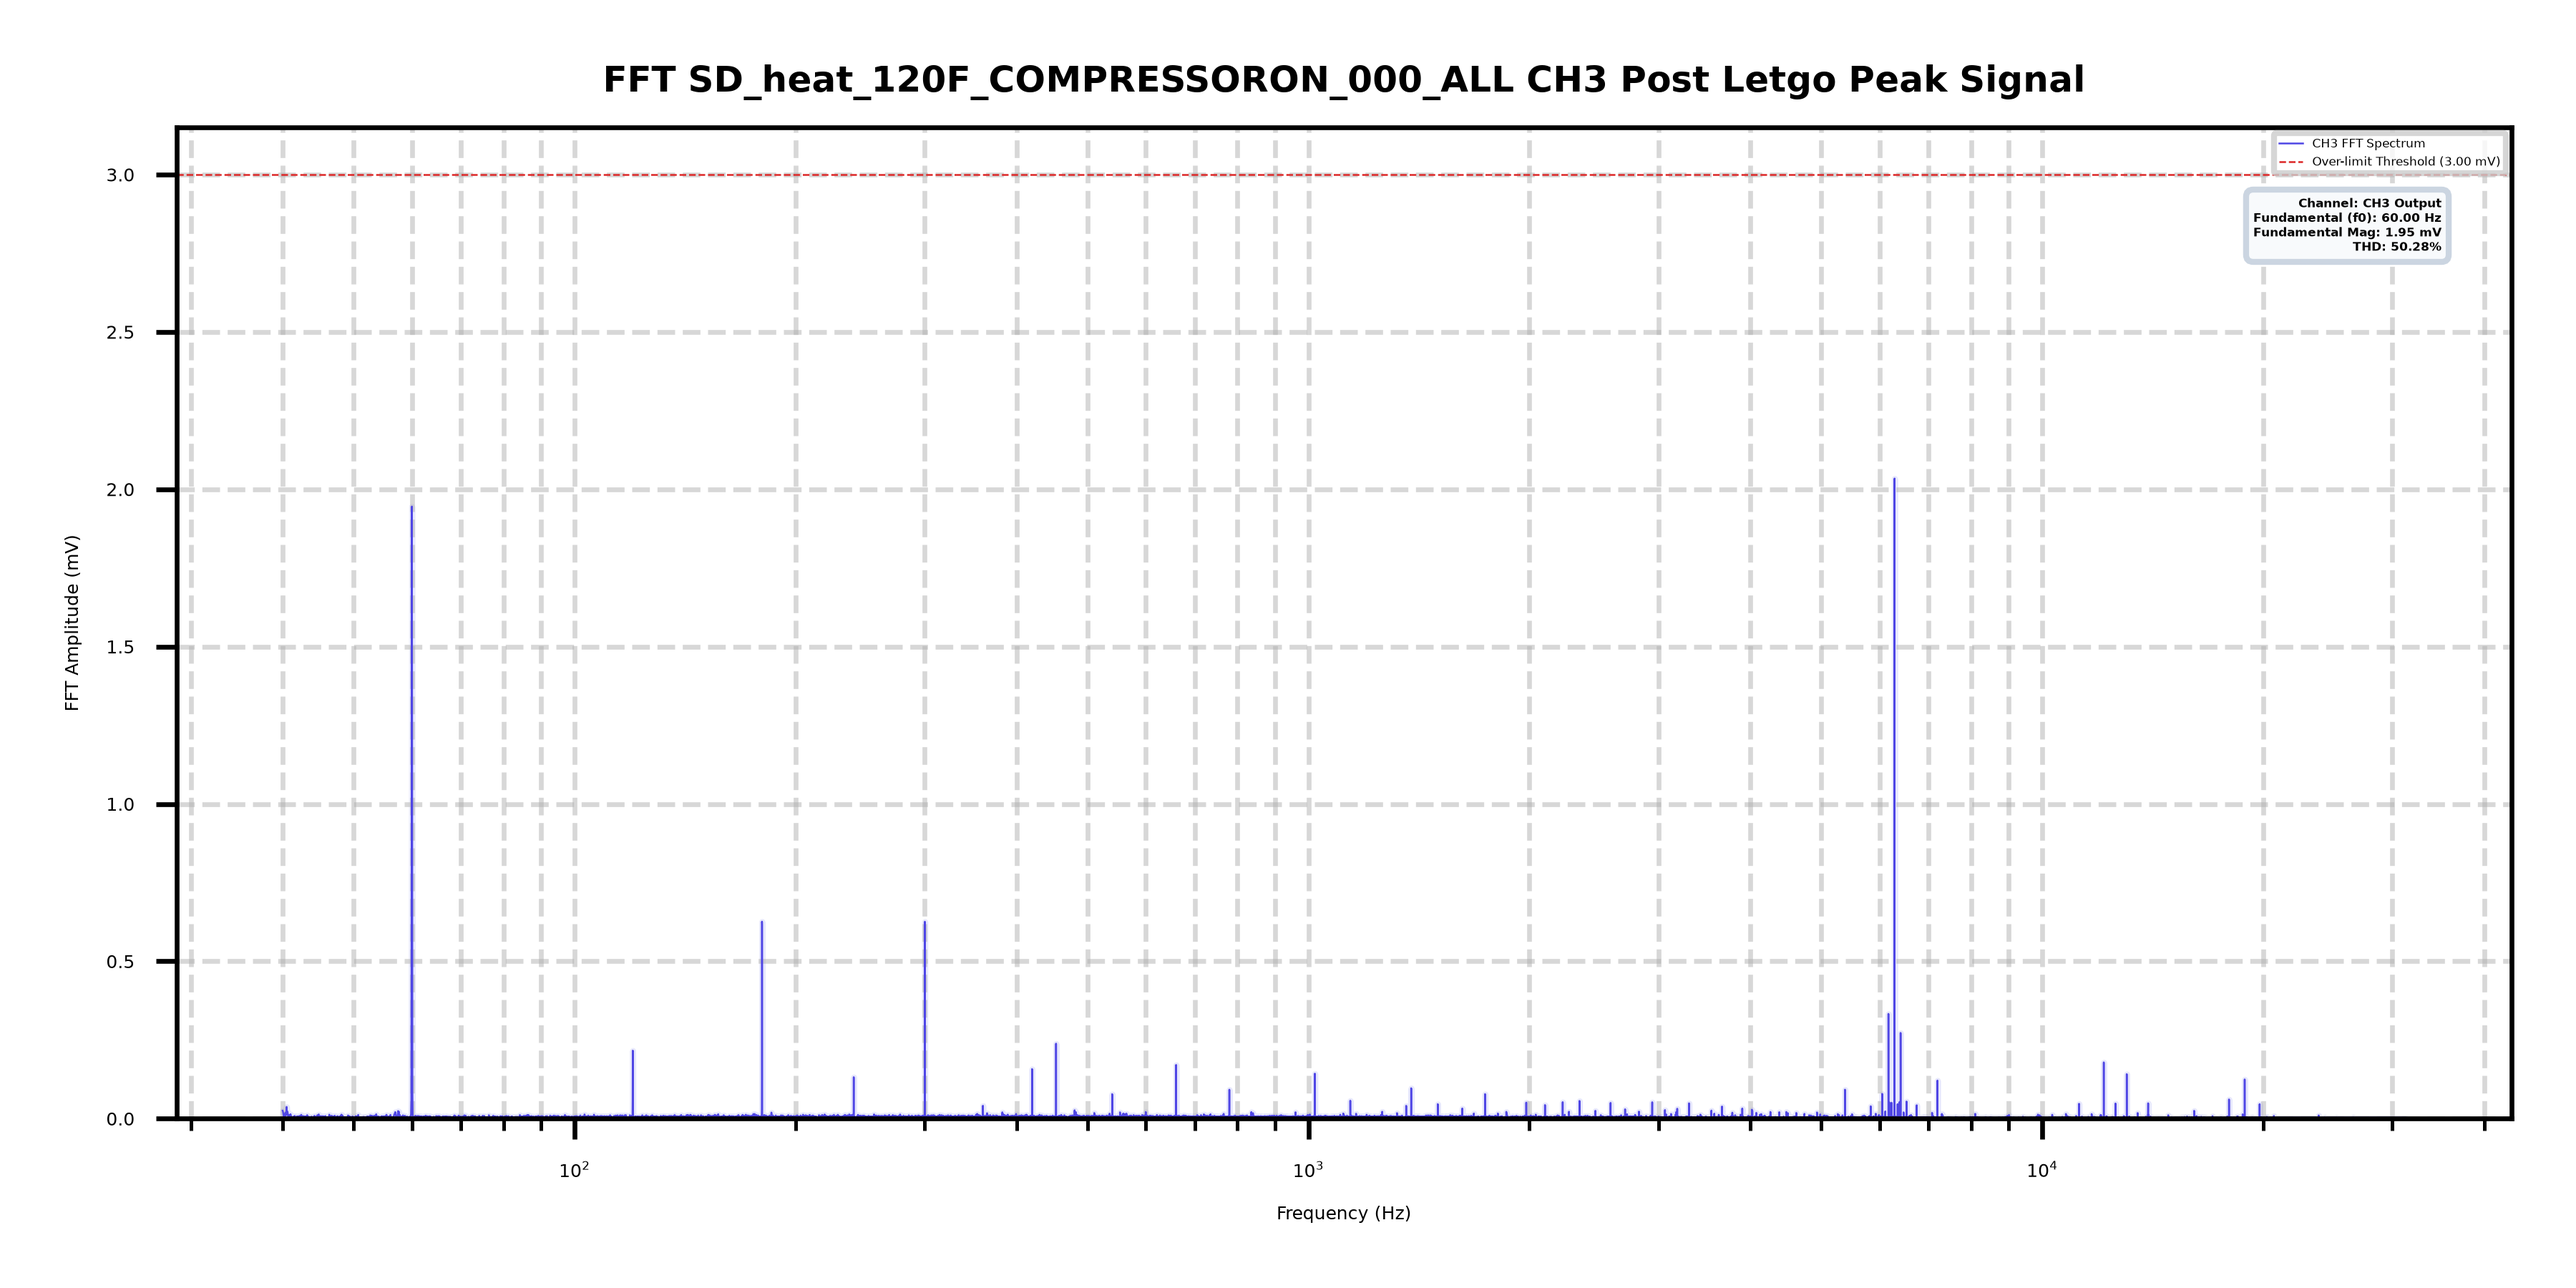
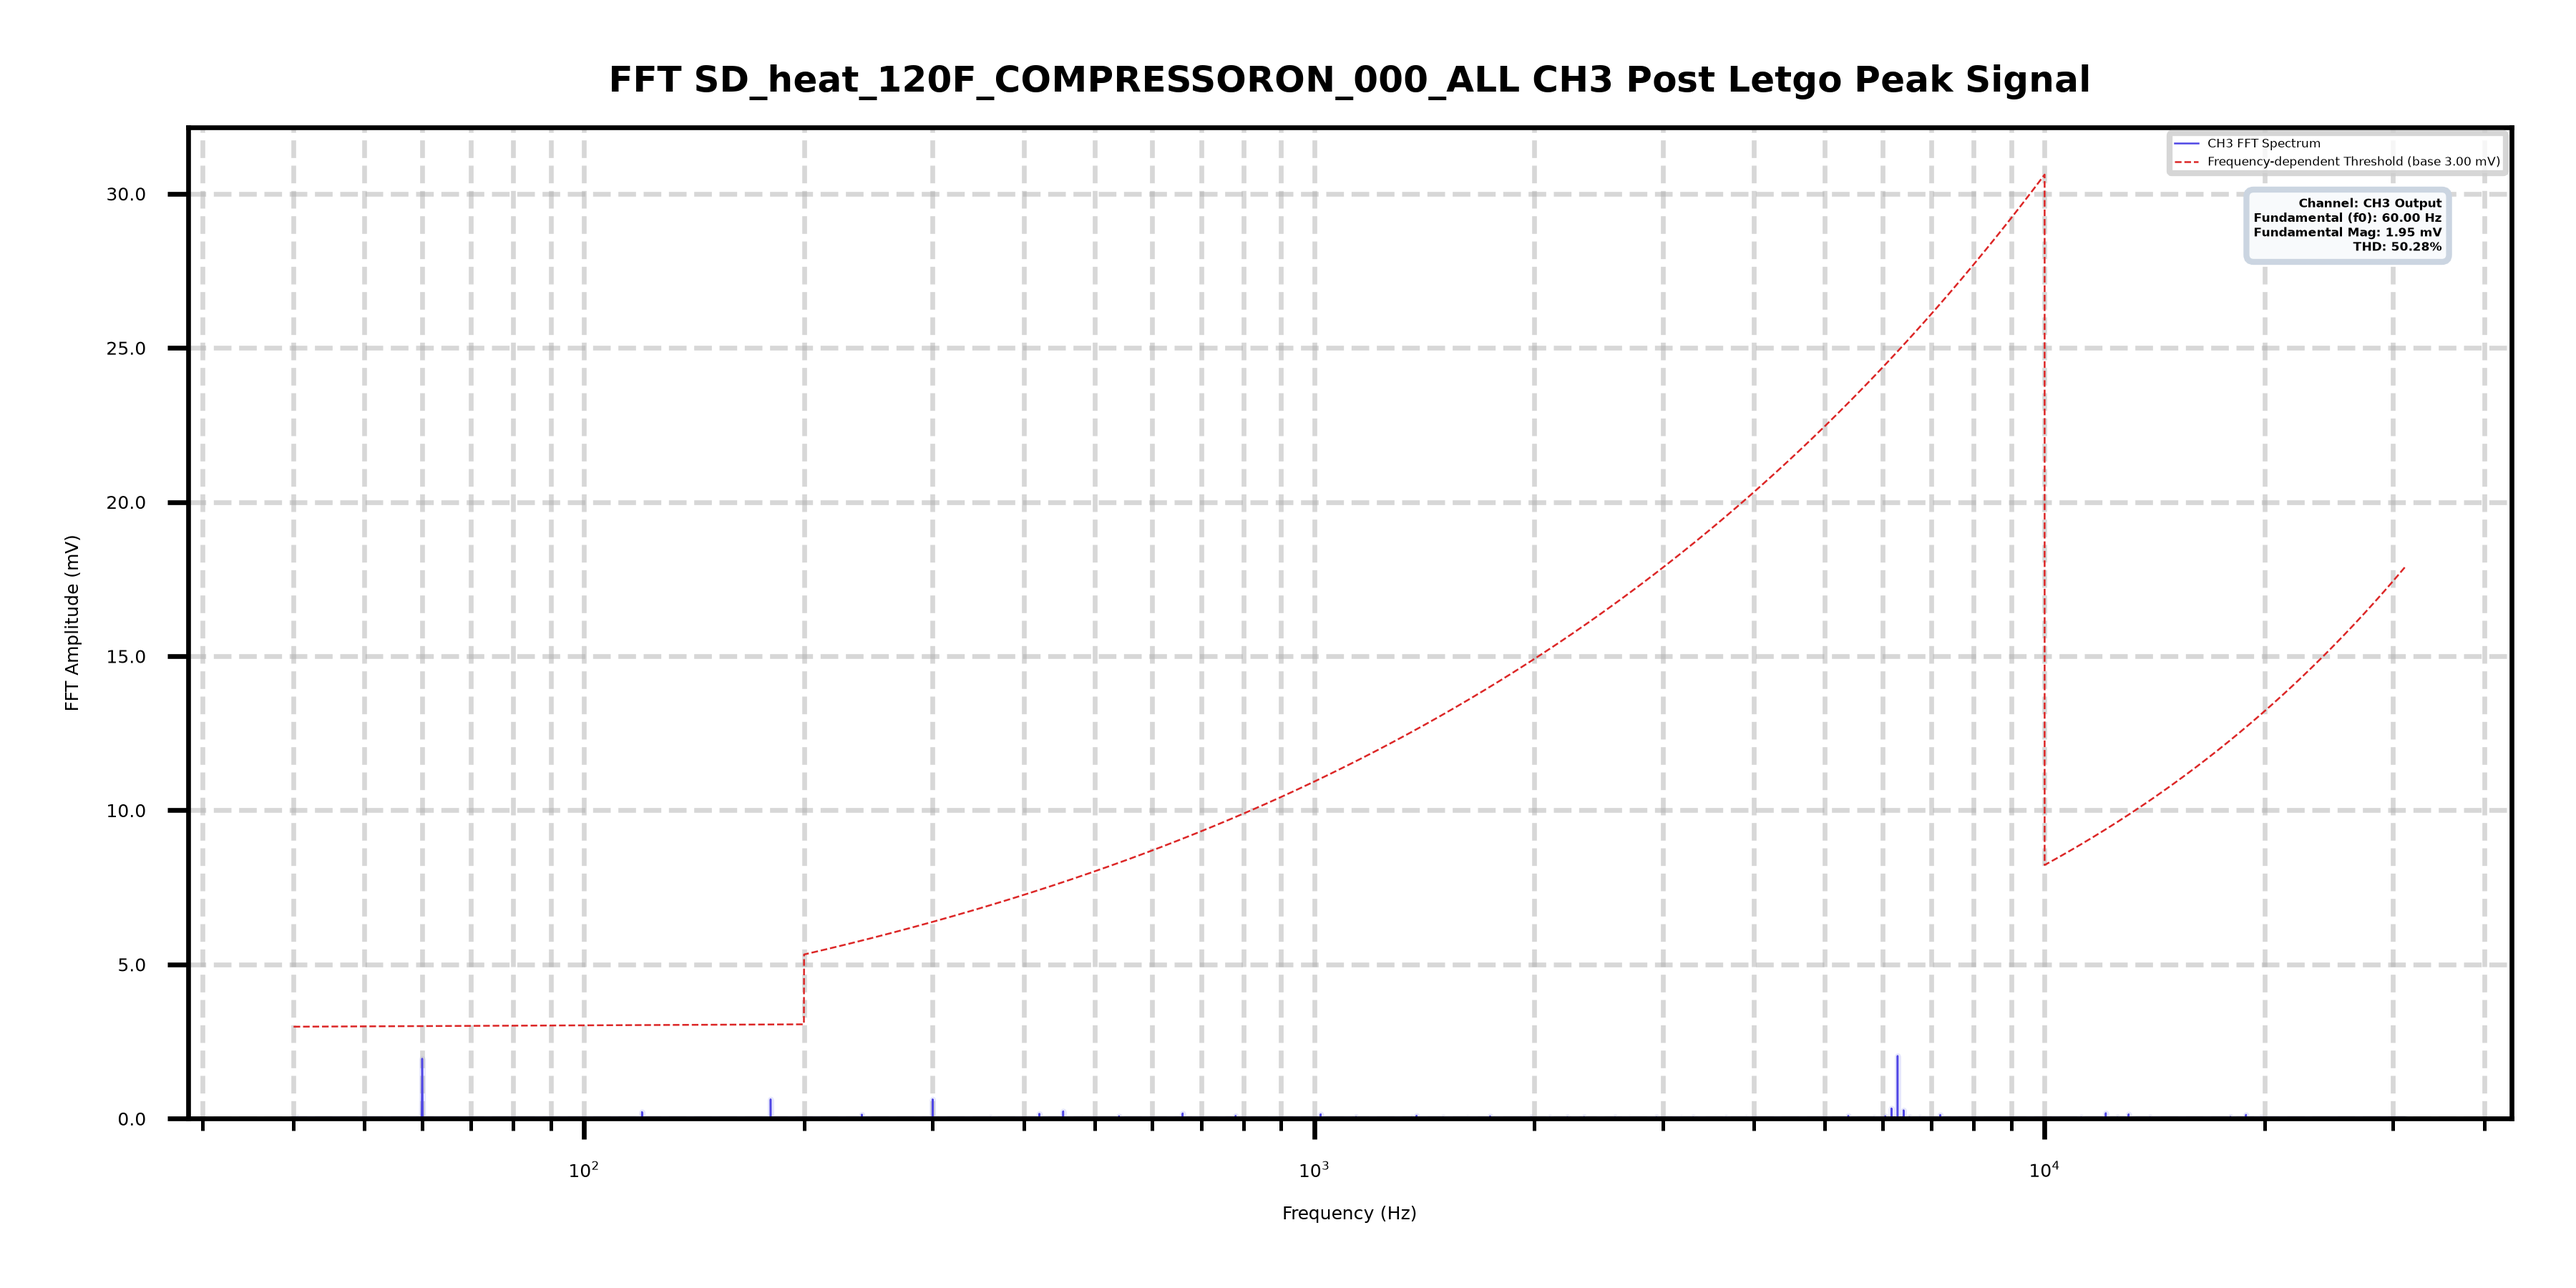
version 0.0.2.1 released

diff --git a/main.py b/main.py
@@ -22,13 +22,16 @@ from pathlib import Path
 
 import markdown
 from PyQt6.QtCore import QStandardPaths, QThread, QTimer, Qt, pyqtSignal
+from PyQt6.QtGui import QIcon
 from PyQt6.QtWidgets import (
     QApplication, QMainWindow, QFileDialog, QMessageBox,
 )
 
 # Shown in the bottom-left corner of the window (see window.ui / lbl_version).
-__version__ = "0.0.1.1"
+__version__ = "0.0.2.1"
 APP_NAME = "GFCI Analyzer"
+APP_USER_MODEL_ID = "GFCI.Analyzer"
+APP_ICON_RELATIVE_PATH = Path("assets") / "torchdragon.ico"
 
 # Analysis engine: prefer the copy bundled with this GUI, then the sibling repo.
 _HERE = os.path.dirname(os.path.abspath(__file__))
@@ -50,6 +53,12 @@ for _path in reversed(_IMPORT_PATHS):
     sys.path.insert(0, _path)
 
 from window_ui import Ui_MainWindow  # noqa: E402
+
+
+def resource_path(relative_path):
+    """Return an application resource path in source and PyInstaller builds."""
+    root = Path(getattr(sys, "_MEIPASS", _HERE))
+    return root / relative_path
 
 
 def default_output_directory():
@@ -74,6 +83,20 @@ def configure_matplotlib_cache():
     except OSError:
         return
     os.environ.setdefault("MPLCONFIGDIR", str(cache_dir))
+
+
+def configure_windows_app_id():
+    """Give the Windows taskbar a stable identity for the application icon."""
+    if sys.platform != "win32":
+        return
+    try:
+        import ctypes
+
+        ctypes.windll.shell32.SetCurrentProcessExplicitAppUserModelID(
+            APP_USER_MODEL_ID
+        )
+    except (AttributeError, OSError):
+        pass
 
 
 def find_csv_channels(file_path):
@@ -403,13 +426,18 @@ class MainWindow(QMainWindow):
 
 
 def main():
+    configure_windows_app_id()
     app = QApplication(sys.argv)
     app.setApplicationName(APP_NAME)
     app.setApplicationDisplayName(APP_NAME)
     app.setApplicationVersion(__version__)
     app.setOrganizationName("GFCI")
+    app_icon = QIcon(str(resource_path(APP_ICON_RELATIVE_PATH)))
+    if not app_icon.isNull():
+        app.setWindowIcon(app_icon)
     configure_matplotlib_cache()
     window = MainWindow()
+    window.setWindowIcon(app_icon)
     window.show()
     sys.exit(app.exec())
 

diff --git a/export/Summary_Report_LCSD_GFCI.md b/export/Summary_Report_LCSD_GFCI.md
@@ -14,62 +14,12 @@
 - Fundamental amplitude: 1.95 mV
 - THD: 50.28%
 
-### Over-limit Summary (> Threshold)
+### Over-limit Summary (> Frequency-dependent Threshold)
 
-|Frequency (Hz)|Voltage (mV)|
-|:-----:|:-----:|
-|None|None|
-
-
-> Generated: 2026-09-12 21:24:48
+|Frequency (Hz)|Voltage (mV)|Threshold (mV)|
+|:-----:|:-----:|:-----:|
+|None|None|None|
 
 
-# SD_heat_120F_COMPRESSORON_000_ALL Test Report
-
-| Channel | Max Value (V) | Min Value (V) | Mean Value (V) | RMS Value (V) |
-|---------|---------------|---------------|----------------|---------------|
-| CH1 | 0.306 | -0.321 | -3.165E-03 | 7.778E-02 |
-| CH2 | 2.621 | 2.340 | 2.504E+00 | 2.504E+00 |
-| CH3 | 0.034 | -0.028 | 2.348E-03 | 7.559E-03 |
-
-
-## FFT Analysis (CH3 post-letgo)
-
-- Fundamental frequency: 60.00 Hz
-- Fundamental amplitude: 1.95 mV
-- THD: 50.28%
-
-### Over-limit Summary (> Threshold)
-
-|Frequency (Hz)|Voltage (mV)|
-|:-----:|:-----:|
-|None|None|
-
-
-> Generated: 2026-09-12 21:56:48
-
-
-# SD_heat_120F_COMPRESSORON_000_ALL Test Report
-
-| Channel | Max Value (V) | Min Value (V) | Mean Value (V) | RMS Value (V) |
-|---------|---------------|---------------|----------------|---------------|
-| CH1 | 0.306 | -0.321 | -3.165E-03 | 7.778E-02 |
-| CH2 | 2.621 | 2.340 | 2.504E+00 | 2.504E+00 |
-| CH3 | 0.034 | -0.028 | 2.348E-03 | 7.559E-03 |
-
-
-## FFT Analysis (CH3 post-letgo)
-
-- Fundamental frequency: 60.00 Hz
-- Fundamental amplitude: 1.95 mV
-- THD: 50.28%
-
-### Over-limit Summary (> Threshold)
-
-|Frequency (Hz)|Voltage (mV)|
-|:-----:|:-----:|
-|None|None|
-
-
-> Generated: 2026-09-15 10:49:17
+> Generated: 2026-09-20 08:10:12
 
